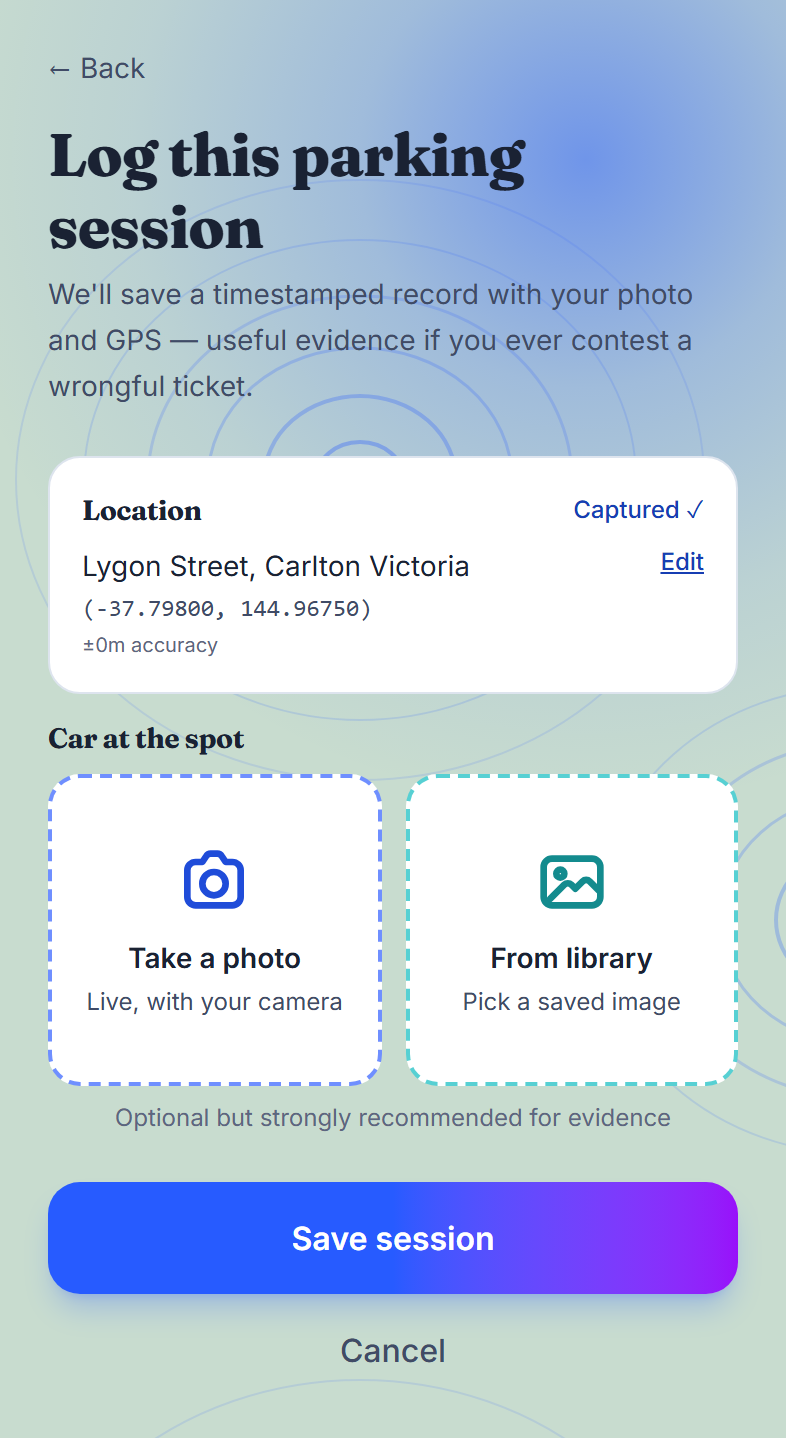
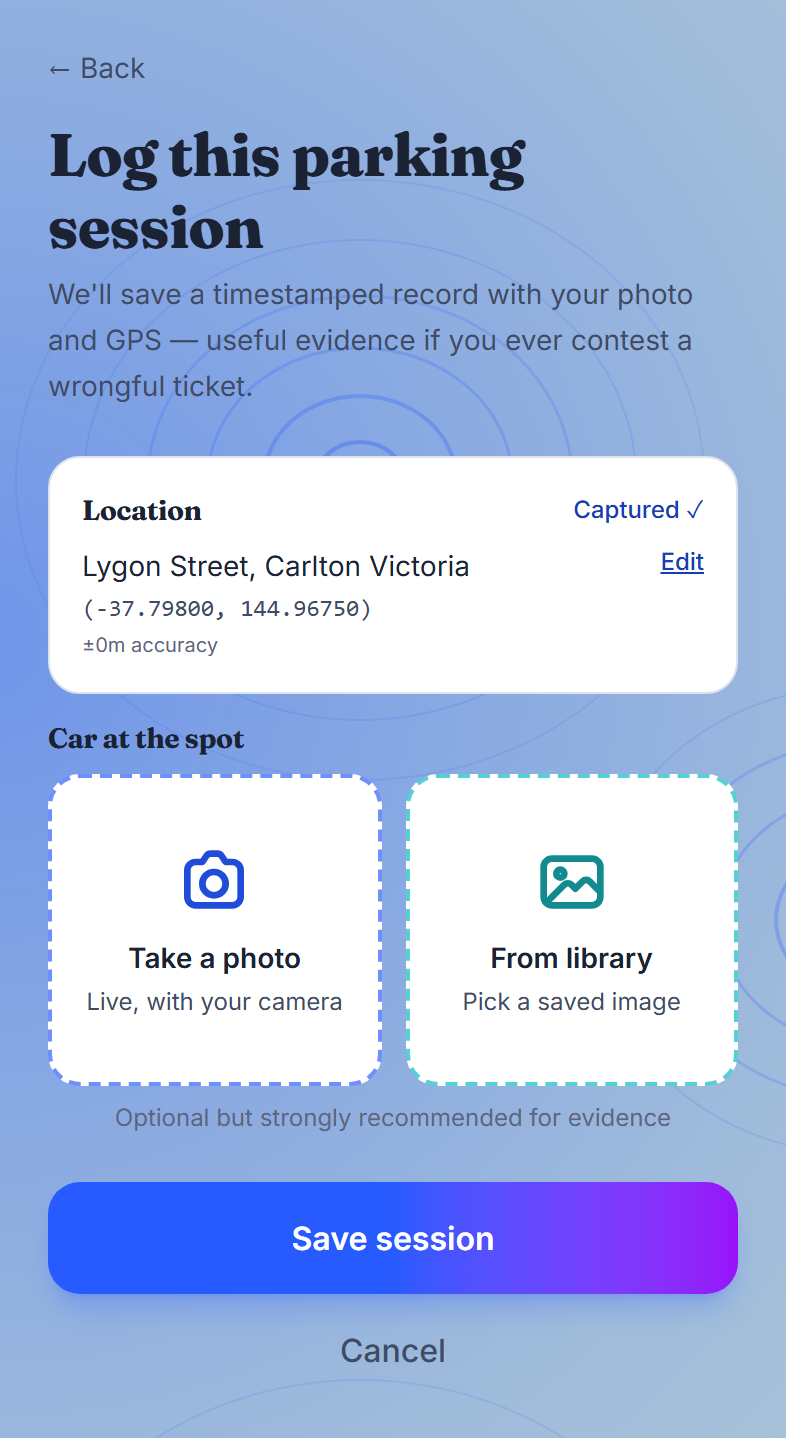
style(bg): bump aurora from 500px to 2000px (4× linear)
User feedback after seeing the 1× aurora ship: "as it is now (1x), it
looks a bit weird" — under-committed. The corner glow was small enough
that it read as a render artefact rather than an intentional accent.

One-line change in src/index.css — background-size for the aurora
layer goes from 500px 500px to 2000px 2000px. The aurora SVG itself
(public/sage-aurora.svg) is unchanged; the browser just renders it 4×
larger. The radial gradient's stop curve is identical, so the blob
fades from full opacity at the corner to transparent at the same
PROPORTIONS — just spread across 4× the distance.

Net effect: the brand-blue glow now spills across the upper half of
the page, turning into an atmospheric wash on top of the sage rings
rather than a tight corner spot. The hero photo sits inside the
aurora wash, picking up a subtle blue tint that frames it.

17 screenshots regenerated.

diff --git a/src/index.css b/src/index.css
@@ -71,8 +71,13 @@ body {
   background-repeat:
     no-repeat,
     repeat;
+  /* Aurora @ 2000x2000 (4× the SVG's native 500x500) — the radial
+     gradient stays the same shape but spills 4× further across the
+     page, so the blue glow reads as an atmospheric wash on the
+     upper portion of the screen instead of a tight corner accent.
+     User feedback: 1× looked under-committed. */
   background-size:
-    500px 500px,
+    2000px 2000px,
     600px 600px;
   -webkit-font-smoothing: antialiased;
   -moz-osx-font-smoothing: grayscale;
